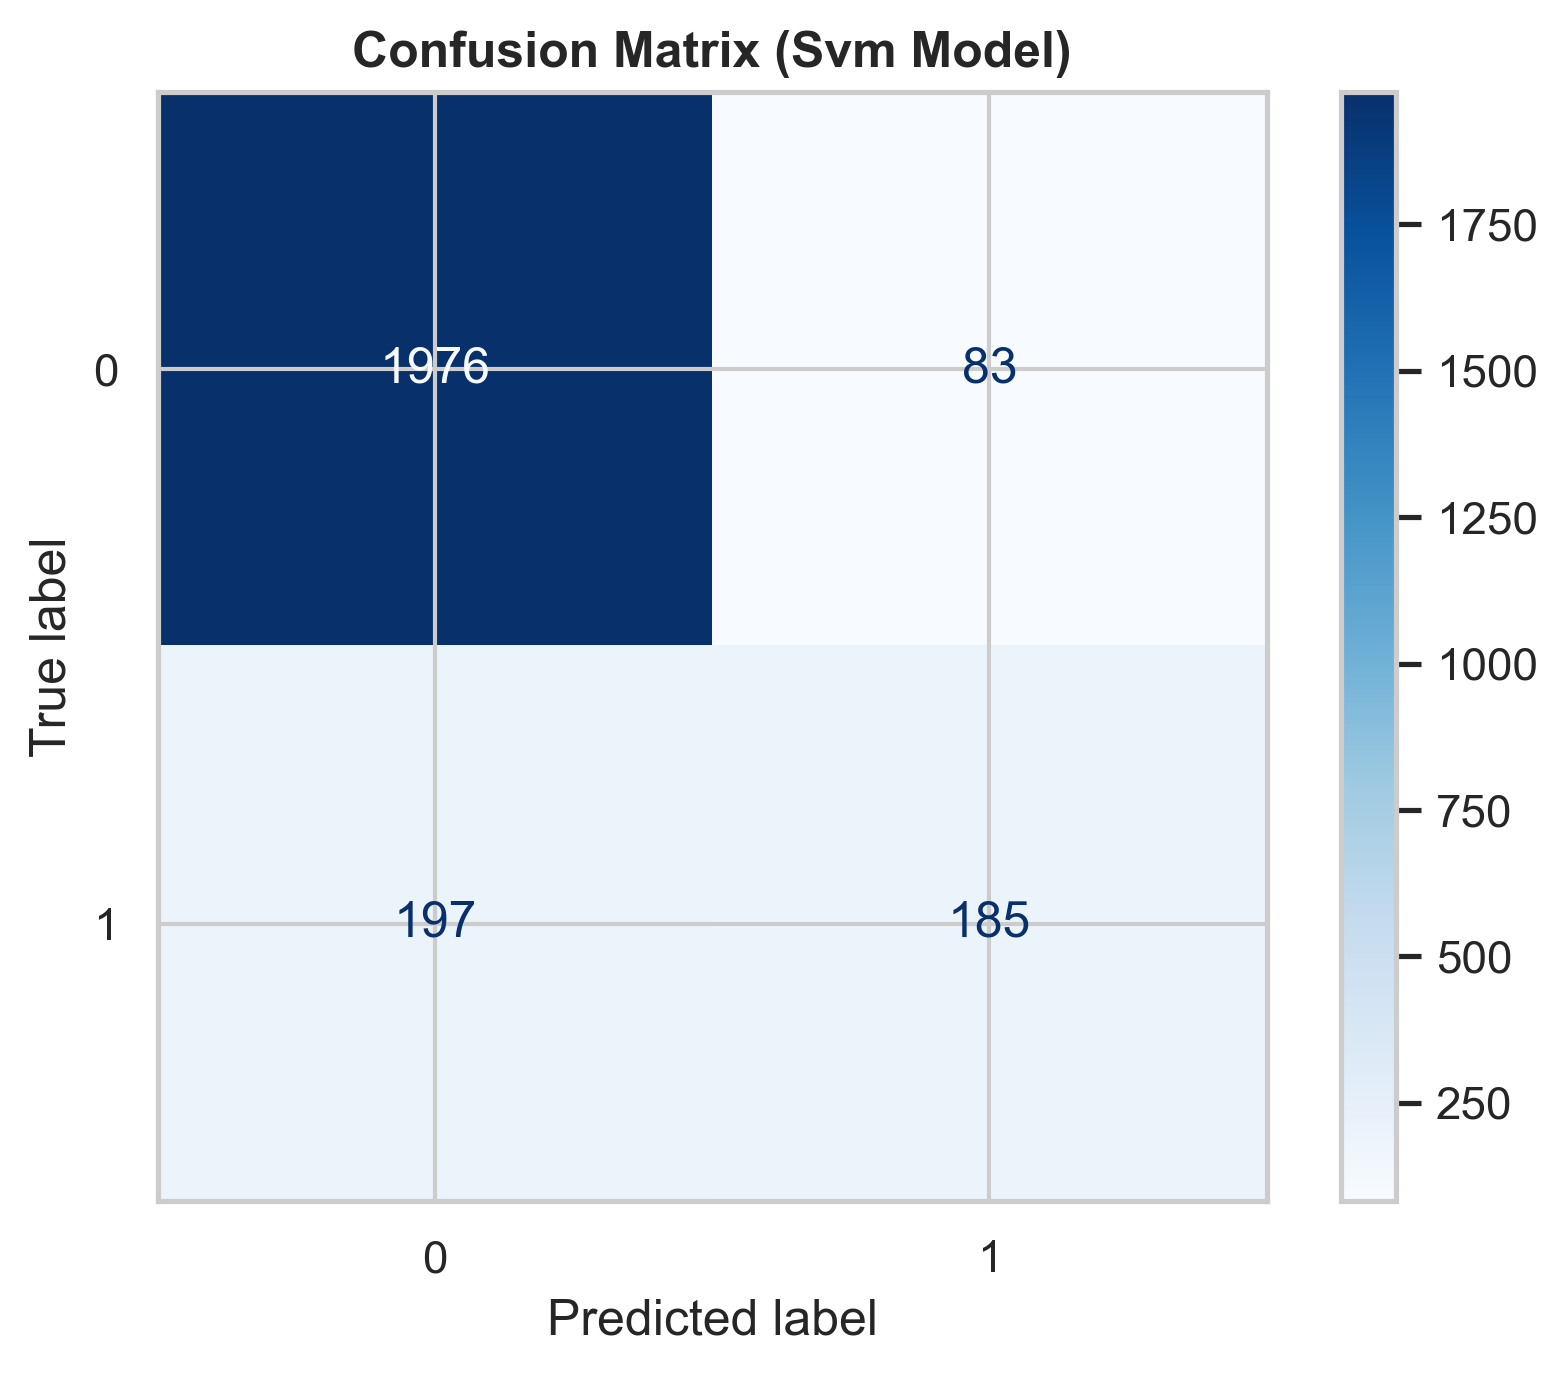
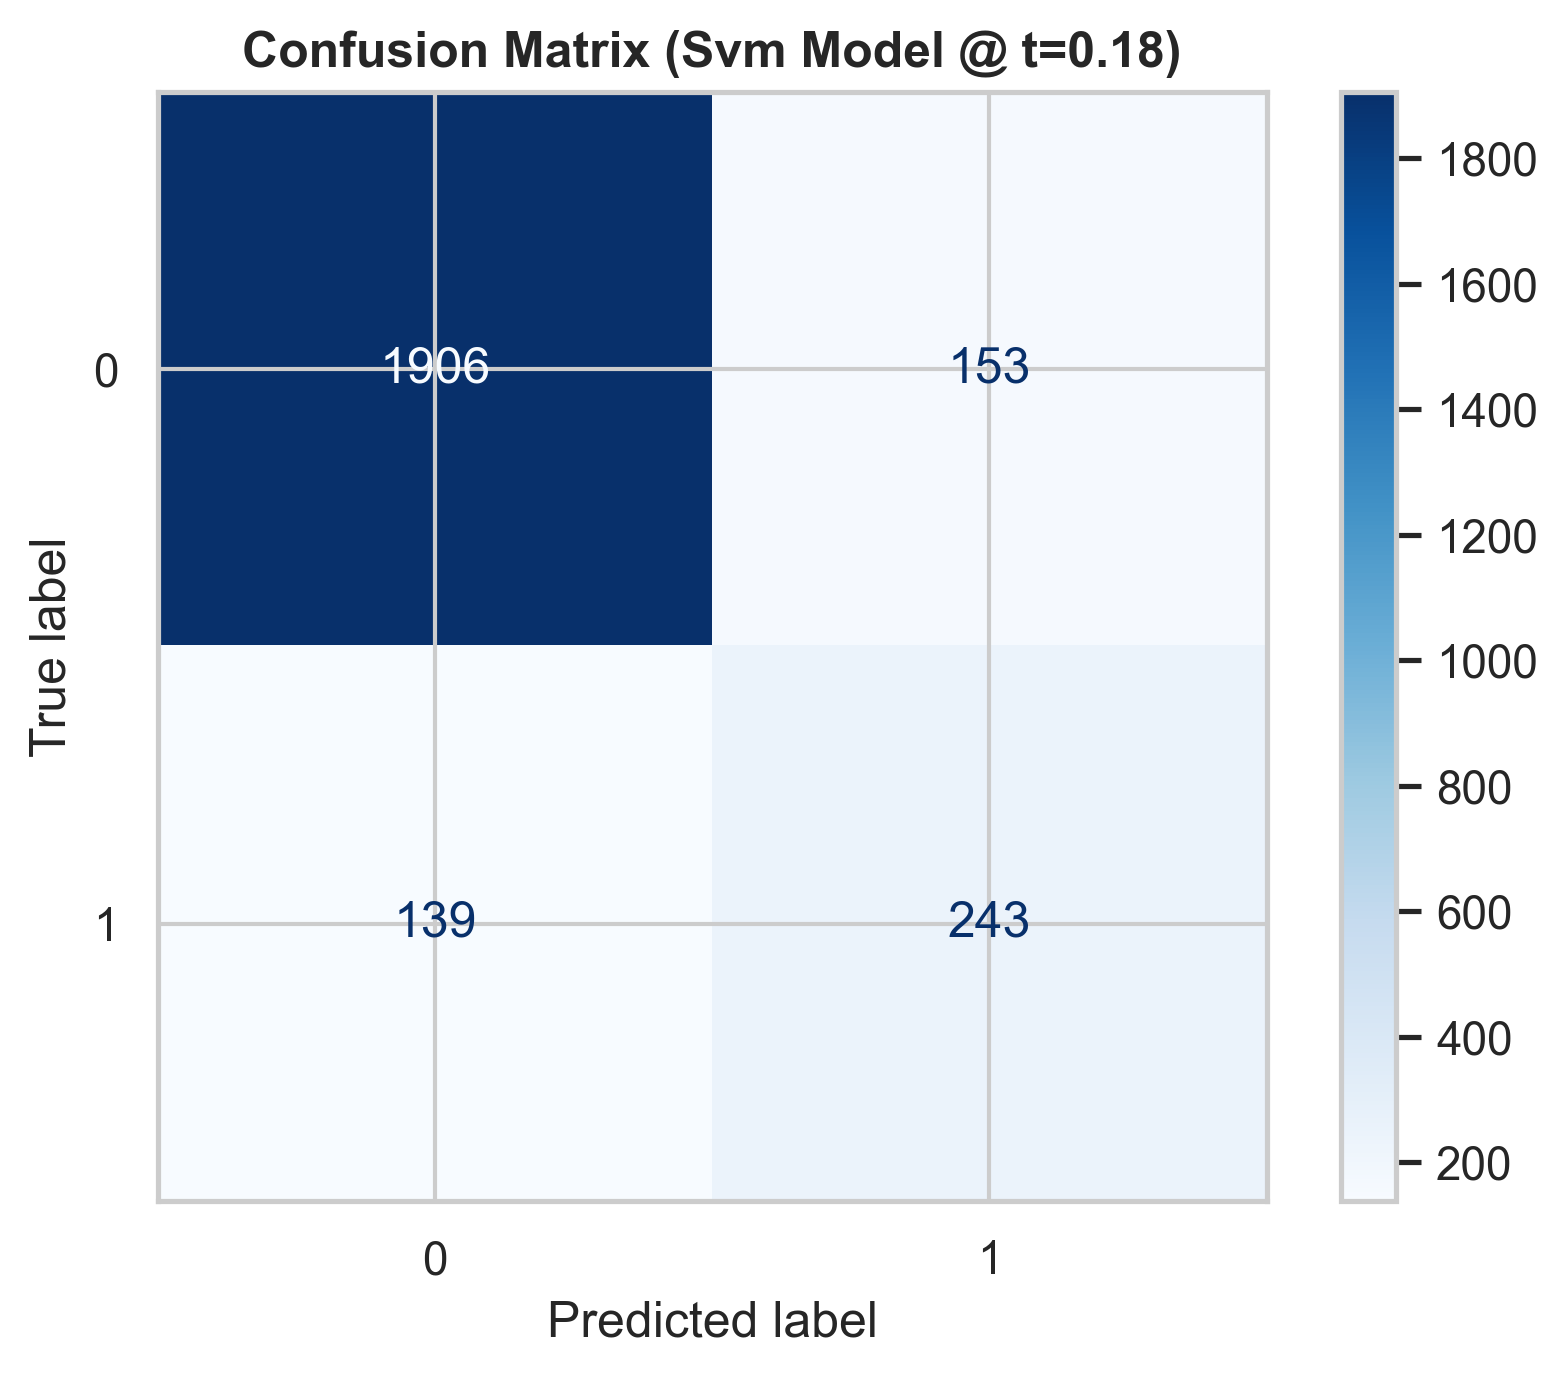
fixed the plot generation problem

diff --git a/src/utils.py b/src/utils.py
@@ -90,14 +90,28 @@ def save_cleaned_dataset(
     )
 
 
-def evaluate_model(model, X_test, y_test) -> dict:
-    """Evaluate a trained model and return a dictionary of evaluation metrics."""
-    y_pred = model.predict(X_test)
+def evaluate_model(model, X_test, y_test, threshold: float | None = None) -> dict:
+    """Evaluate a trained model and return a dictionary of evaluation metrics.
+
+    Threshold resolution:
+      1. If `threshold` is passed explicitly, use it.
+      2. Else if the model has an `.optimal_threshold_` attribute, use that.
+      3. Else default to 0.5.
+    """
+    if threshold is None:
+        threshold = getattr(model, "optimal_threshold_", 0.5)
+
     y_prob = (
         model.predict_proba(X_test)[:, 1] if hasattr(model, "predict_proba") else None
     )
+    y_pred = (
+        (y_prob >= threshold).astype(int)
+        if y_prob is not None
+        else model.predict(X_test)
+    )
 
     metrics = {
+        "Threshold": threshold,
         "Accuracy": accuracy_score(y_test, y_pred),
         "Precision": precision_score(y_test, y_pred, zero_division=0),
         "Recall": recall_score(y_test, y_pred, zero_division=0),
@@ -115,6 +129,8 @@ def print_metrics(model_name: str, metrics: dict) -> None:
     print("=" * 50)
     print(f" Model Evaluation Metrics: {model_name}")
     print("=" * 50)
+    if metrics.get("Threshold") is not None:
+        print(f"Threshold: {metrics['Threshold']:.4f}")
     print(f"Accuracy : {metrics['Accuracy']:.4f}")
     print(f"Precision: {metrics['Precision']:.4f}")
     print(f"Recall   : {metrics['Recall']:.4f}")
@@ -137,9 +153,10 @@ def save_metrics(model_name: str, stem: str, metrics: dict, output_path: Path):
     if hasattr(cm, "tolist"):
         cm = cm.tolist()
 
-    # Standardized 8-key schema matching model_visualize.py
+    # Standardized schema matching model_visualize.py
     serializable_metrics = {
         "stem": stem,
+        "Threshold": float(metrics.get("Threshold", 0.5)),
         "Accuracy": float(metrics.get("Accuracy", 0.0)),
         "Precision": float(metrics.get("Precision", 0.0)),
         "Recall": float(metrics.get("Recall", 0.0)),
@@ -166,9 +183,14 @@ def save_metrics(model_name: str, stem: str, metrics: dict, output_path: Path):
     print(f"Metrics for {model_name} saved to {output_path}")
 
 
-def plot_confusion_matrix(model, X_test, y_test):
-    """Plot confusion matrix chart."""
-    predictions = model.predict(X_test)
+def plot_confusion_matrix(model, X_test, y_test, threshold: float | None = None):
+    """Plot confusion matrix chart, using the model's tuned threshold if set."""
+    if threshold is None:
+        threshold = getattr(model, "optimal_threshold_", 0.5)
+    if hasattr(model, "predict_proba"):
+        predictions = (model.predict_proba(X_test)[:, 1] >= threshold).astype(int)
+    else:
+        predictions = model.predict(X_test)
     cm = confusion_matrix(y_test, predictions)
 
     display = ConfusionMatrixDisplay(confusion_matrix=cm)

diff --git a/pages/3_Live_Prediction.py b/pages/3_Live_Prediction.py
@@ -63,6 +63,24 @@ def discover_models():
             try:
                 model = load_model(pkl)
                 nice_name = pkl.stem.replace("_", " ").title()
+                threshold = getattr(model, "optimal_threshold_", None)
+                if threshold is None:
+                    summary_file = (
+                        project_root
+                        / "report_assets"
+                        / "threshold_analysis"
+                        / f"{pkl.stem.split('_')[0]}_threshold_summary.json"
+                    )
+                    if summary_file.exists():
+                        try:
+                            import json
+
+                            with open(summary_file, "r", encoding="utf-8") as sf:
+                                threshold = json.load(sf).get("selected_threshold")
+                        except Exception:
+                            pass
+                if threshold is not None:
+                    model.optimal_threshold_ = float(threshold)
                 models[nice_name] = {"model": model, "stem": pkl.stem}
             except Exception as e:
                 st.warning(f"⚠ Failed to load `{pkl.name}`: {e}")
@@ -423,11 +441,16 @@ if submitted:
 
     try:
         if prediction_mode == "Single Model":
-            prediction = selected_model.predict(input_data)[0]
+            threshold = getattr(selected_model, "optimal_threshold_", 0.5)
             proba = (
                 selected_model.predict_proba(input_data)[0]
                 if hasattr(selected_model, "predict_proba")
                 else None
+            )
+            prediction = (
+                int(proba[1] >= threshold)
+                if proba is not None
+                else selected_model.predict(input_data)[0]
             )
 
             st.markdown("---")
@@ -475,11 +498,16 @@ if submitted:
             for name, info in models.items():
                 model = info["model"]
                 try:
-                    pred = model.predict(input_data)[0]
+                    threshold = getattr(model, "optimal_threshold_", 0.5)
                     prob = (
                         model.predict_proba(input_data)[0]
                         if hasattr(model, "predict_proba")
                         else None
+                    )
+                    pred = (
+                        int(prob[1] >= threshold)
+                        if prob is not None
+                        else model.predict(input_data)[0]
                     )
                     pur_prob = float(prob[1]) if prob is not None else float(pred)
                     all_results.append(

diff --git a/src/model_visualize.py b/src/model_visualize.py
@@ -76,11 +76,35 @@ def main():
         print(f"    -> Evaluating {name}...")
         try:
             model = load_model(info["path"])
-            metrics = evaluate_model(model, X_test, y_test)
+
+            # Resolve decision threshold (model attribute -> threshold analysis summary -> fallback 0.5)
+            threshold = getattr(model, "optimal_threshold_", None)
+            if threshold is None:
+                summary_file = (
+                    project_root
+                    / "report_assets"
+                    / "threshold_analysis"
+                    / f"{info['stem']}_threshold_summary.json"
+                )
+                if summary_file.exists():
+                    try:
+                        with open(summary_file, "r", encoding="utf-8") as sf:
+                            summary_data = json.load(sf)
+                            threshold = summary_data.get("selected_threshold")
+                    except Exception:
+                        pass
+            if threshold is None:
+                threshold = 0.5
+
+            threshold = float(threshold)
+            model.optimal_threshold_ = threshold
+
+            metrics = evaluate_model(model, X_test, y_test, threshold=threshold)
 
             cm = metrics["Confusion Matrix"]
             all_metrics[name] = {
                 "stem": info["stem"],
+                "Threshold": threshold,
                 "Accuracy": float(metrics["Accuracy"]),
                 "Precision": float(metrics["Precision"]),
                 "Recall": float(metrics["Recall"]),
@@ -93,8 +117,10 @@ def main():
             safe_name = info["stem"]
 
             # Confusion Matrix
-            fig_cm = plot_confusion_matrix(model, X_test, y_test)
-            fig_cm.axes[0].set_title(f"Confusion Matrix ({name})", fontweight="bold")
+            fig_cm = plot_confusion_matrix(model, X_test, y_test, threshold=threshold)
+            fig_cm.axes[0].set_title(
+                f"Confusion Matrix ({name} @ t={threshold:.2f})", fontweight="bold"
+            )
             fig_cm.savefig(
                 PLOT_DIR / f"confusion_matrix_{safe_name}.png",
                 dpi=300,

diff --git a/pages/2_Model_Comparison.py b/pages/2_Model_Comparison.py
@@ -65,6 +65,7 @@ for name, metrics in all_metrics.items():
     results.append(
         {
             "Model": name,
+            "Threshold": metrics.get("Threshold", 0.5),
             "Accuracy": metrics.get("Accuracy", 0.0),
             "Precision": metrics.get("Precision", 0.0),
             "Recall": metrics.get("Recall", 0.0),

diff --git a/models/svm_model.py b/models/svm_model.py
@@ -791,6 +791,8 @@ def train_svm(
         save_path=plot_dir / "svm_precision_recall_threshold.png",
     )
 
+    calibrated_model.optimal_threshold_ = float(optimal_threshold)
+
     if output_path:
         save_model(calibrated_model, output_path)
 
